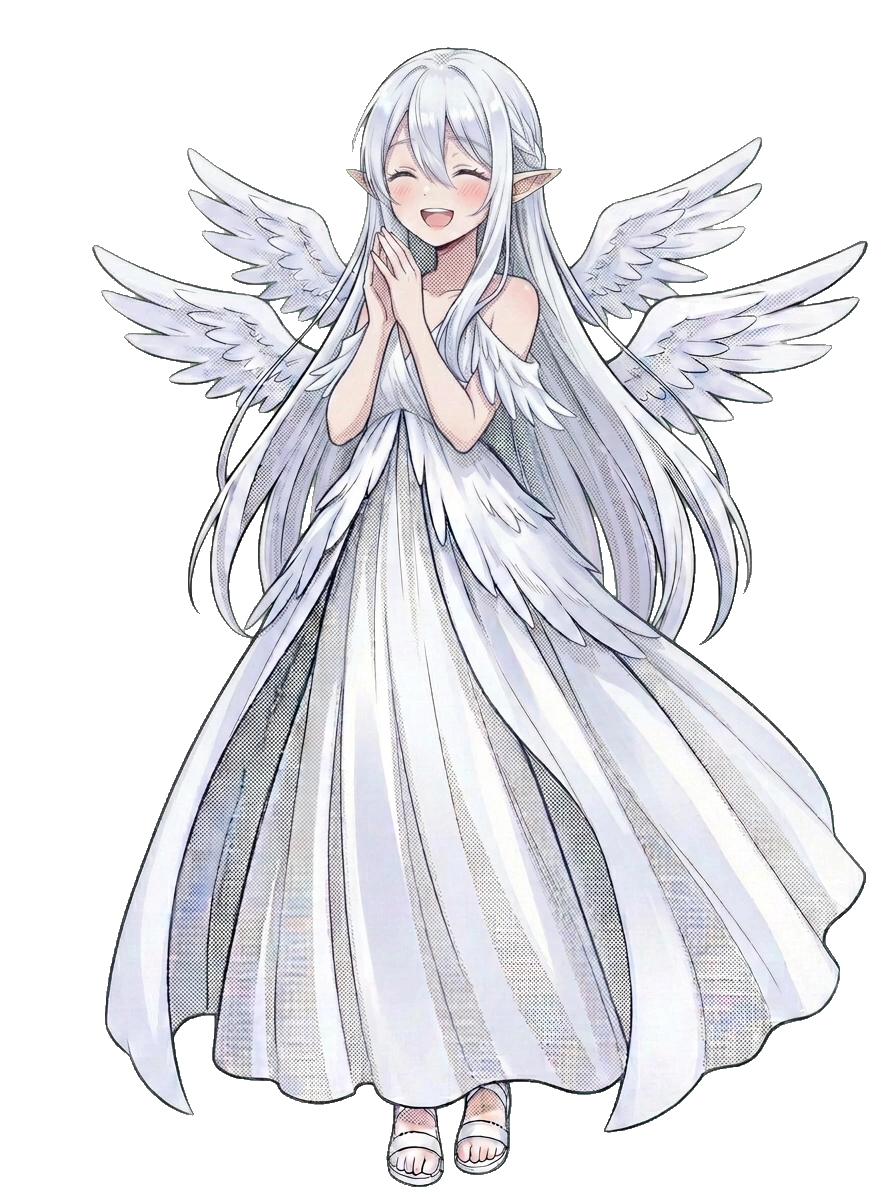
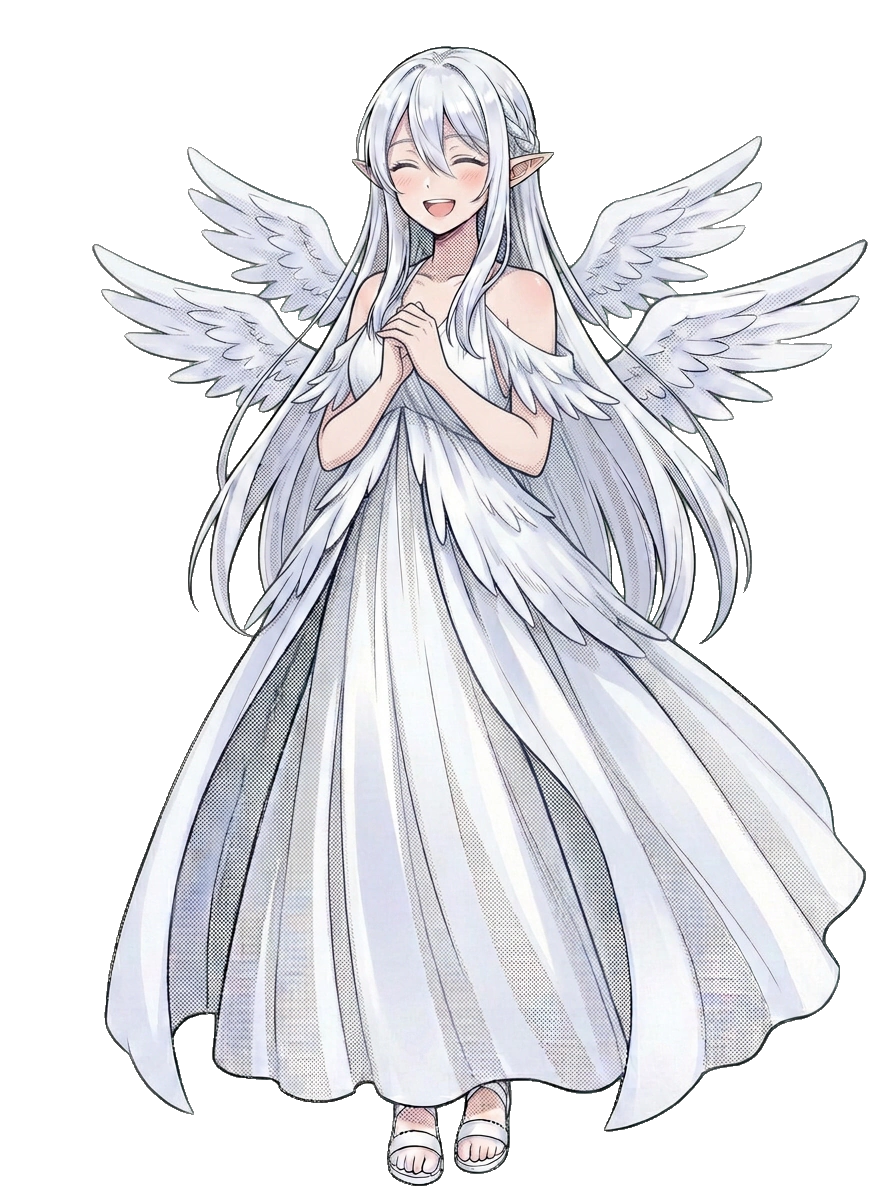
Мира: новый спрайт ангела happy (взрослое лицо как у neutral); первые черновики CG Дней 3–7 в art/cg_drafts; ASSET_VER _52

diff --git a/index.html b/index.html
@@ -4,7 +4,7 @@
   <meta charset="UTF-8" />
   <meta name="viewport" content="width=device-width, initial-scale=1.0" />
   <title>Не смотри на небо</title>
-  <link rel="stylesheet" href="styles.css?v=20261103_51" />
+  <link rel="stylesheet" href="styles.css?v=20261103_52" />
 </head>
 <body>
   <div id="app">
@@ -16,7 +16,7 @@
           <feDisplacementMap in="SourceGraphic" in2="n" scale="2.2" xChannelSelector="R" yChannelSelector="G"/>
         </filter>
       </svg>
-      <img class="swag-logo-img" src="assets/ui/swag_logo.png?v=20261103_51" alt="$WAG Entertainment" draggable="false">
+      <img class="swag-logo-img" src="assets/ui/swag_logo.png?v=20261103_52" alt="$WAG Entertainment" draggable="false">
       <div class="swag-sub"><span class="swag-line"></span><span class="swag-star">✦</span><span class="swag-word">представляет</span><span class="swag-star">✦</span><span class="swag-line r"></span></div>
       <div class="swag-hint">Нажмите, чтобы пропустить</div>
     </div>
@@ -266,46 +266,46 @@
   </div>
 
   <!-- SCRIPT CHAPTERS -->
-  <script src="vn-config.js?v=20261103_51"></script>
-  <script src="vn-core.js?v=20261103_51"></script>
-  <script src="script/_registry.js?v=20261103_51"></script>
-  <script src="script/prologue_1_morning.js?v=20261103_51"></script>
-  <script src="script/prologue_2_city.js?v=20261103_51"></script>
-  <script src="script/prologue_3_barbershop.js?v=20261103_51"></script>
-  <script src="script/prologue_4_depot.js?v=20261103_51"></script>
-  <script src="script/prologue_5_crash.js?v=20261103_51"></script>
-  <script src="script/day1_1_mirael.js?v=20261103_51"></script>
-  <script src="script/day1_2_kitchen.js?v=20261103_51"></script>
-  <script src="script/day1_3_valeria.js?v=20261103_51"></script>
-  <script src="script/day1_4_bridge.js?v=20261103_51"></script>
-  <script src="script/day1_5_taya.js?v=20261103_51"></script>
-  <script src="script/day2_1_quit.js?v=20261103_51"></script>
-  <script src="script/day2_2_shift.js?v=20261103_51"></script>
-  <script src="script/day2_3_zero.js?v=20261103_51"></script>
-  <script src="script/day2_4_walk.js?v=20261103_51"></script>
-  <script src="script/day3_1_office.js?v=20261103_51"></script>
-  <script src="script/day3_2_nika.js?v=20261103_51"></script>
-  <script src="script/day3_3_books.js?v=20261103_51"></script>
-  <script src="script/day3_3_home.js?v=20261103_51"></script>
-  <script src="script/day3_4_nika_night.js?v=20261103_51"></script>
-  <script src="script/day4_1_free.js?v=20261103_51"></script>
-  <script src="script/day4_1b_film.js?v=20261103_51"></script>
-  <script src="script/day4_2_barbershop.js?v=20261103_51"></script>
-  <script src="script/day4_2b_cake.js?v=20261103_51"></script>
-  <script src="script/day4_3_cuckoo.js?v=20261103_51"></script>
-  <script src="script/day4_3_home.js?v=20261103_51"></script>
-  <script src="script/day5_0_bike.js?v=20261103_51"></script>
-  <script src="script/day5_0b_market.js?v=20261103_51"></script>
-  <script src="script/day5_1_artyom.js?v=20261103_51"></script>
-  <script src="script/day5_2_elevator.js?v=20261103_51"></script>
-  <script src="script/day5_3_night.js?v=20261103_51"></script>
-  <script src="script/day6_1_morning.js?v=20261103_51"></script>
-  <script src="script/day6_2_squeeze.js?v=20261103_51"></script>
-  <script src="script/day6_2b_bureau.js?v=20261103_51"></script>
-  <script src="script/day6_3_taya.js?v=20261103_51"></script>
-  <script src="script/day7_0_river.js?v=20261103_51"></script>
-  <script src="script/day7_1_voices.js?v=20261103_51"></script>
-  <script src="script/day7_2_stairs.js?v=20261103_51"></script>
-  <script src="engine.js?v=20261103_51"></script>
+  <script src="vn-config.js?v=20261103_52"></script>
+  <script src="vn-core.js?v=20261103_52"></script>
+  <script src="script/_registry.js?v=20261103_52"></script>
+  <script src="script/prologue_1_morning.js?v=20261103_52"></script>
+  <script src="script/prologue_2_city.js?v=20261103_52"></script>
+  <script src="script/prologue_3_barbershop.js?v=20261103_52"></script>
+  <script src="script/prologue_4_depot.js?v=20261103_52"></script>
+  <script src="script/prologue_5_crash.js?v=20261103_52"></script>
+  <script src="script/day1_1_mirael.js?v=20261103_52"></script>
+  <script src="script/day1_2_kitchen.js?v=20261103_52"></script>
+  <script src="script/day1_3_valeria.js?v=20261103_52"></script>
+  <script src="script/day1_4_bridge.js?v=20261103_52"></script>
+  <script src="script/day1_5_taya.js?v=20261103_52"></script>
+  <script src="script/day2_1_quit.js?v=20261103_52"></script>
+  <script src="script/day2_2_shift.js?v=20261103_52"></script>
+  <script src="script/day2_3_zero.js?v=20261103_52"></script>
+  <script src="script/day2_4_walk.js?v=20261103_52"></script>
+  <script src="script/day3_1_office.js?v=20261103_52"></script>
+  <script src="script/day3_2_nika.js?v=20261103_52"></script>
+  <script src="script/day3_3_books.js?v=20261103_52"></script>
+  <script src="script/day3_3_home.js?v=20261103_52"></script>
+  <script src="script/day3_4_nika_night.js?v=20261103_52"></script>
+  <script src="script/day4_1_free.js?v=20261103_52"></script>
+  <script src="script/day4_1b_film.js?v=20261103_52"></script>
+  <script src="script/day4_2_barbershop.js?v=20261103_52"></script>
+  <script src="script/day4_2b_cake.js?v=20261103_52"></script>
+  <script src="script/day4_3_cuckoo.js?v=20261103_52"></script>
+  <script src="script/day4_3_home.js?v=20261103_52"></script>
+  <script src="script/day5_0_bike.js?v=20261103_52"></script>
+  <script src="script/day5_0b_market.js?v=20261103_52"></script>
+  <script src="script/day5_1_artyom.js?v=20261103_52"></script>
+  <script src="script/day5_2_elevator.js?v=20261103_52"></script>
+  <script src="script/day5_3_night.js?v=20261103_52"></script>
+  <script src="script/day6_1_morning.js?v=20261103_52"></script>
+  <script src="script/day6_2_squeeze.js?v=20261103_52"></script>
+  <script src="script/day6_2b_bureau.js?v=20261103_52"></script>
+  <script src="script/day6_3_taya.js?v=20261103_52"></script>
+  <script src="script/day7_0_river.js?v=20261103_52"></script>
+  <script src="script/day7_1_voices.js?v=20261103_52"></script>
+  <script src="script/day7_2_stairs.js?v=20261103_52"></script>
+  <script src="engine.js?v=20261103_52"></script>
 </body>
 </html>

diff --git a/engine.js b/engine.js
@@ -1,6 +1,6 @@
 // ДВИЖОК ВИЗУАЛЬНОЙ НОВЕЛЛЫ «НЕ СМОТРИ НА НЕБО» ($WAG ENTERTAINMENT)
 (function () {
-  const ASSET_VER = "20261103_51";
+  const ASSET_VER = "20261103_52";
 
   function withVer(url) {
     if (!url) return "";

diff --git a/docs/production/assets.md b/docs/production/assets.md
@@ -180,7 +180,7 @@
 8. CG: решить по `cg_sasha_mirror` (текст ↔ картинка); `cg_crash_headlights` — перерисовать при возможности.
 9. ✅ 02.11 оптимизация: фоны и CG → WebP q94 (143.9 → 26.9 МБ), игровые спрайты → WebP q97 с альфой без потерь (108.7 → 13.7 МБ). Ширина спрайтов уже одна из трёх (896, 892, 956 при высоте 1200/1280), слоты в `styles.css` под неё настроены, поэтому не трогали. MP3 оставлены как есть.
 10. `sprites_for_cutout/` (63 МБ) и исходники спрайтов вне `transparent/` (103 файла, 97 МБ) вынести из игры (в отдельную ветку/архив) после того, как автор подтвердит, что ручная вырезка не нужна. Проверено 02.11: это не дубли, побайтно с игровыми не совпадает ни один.
-11. CG для Дней 3–7: 18 мест по плану (9 A, 9 B), см. раздел ниже.
+11. CG для Дней 3–7: 18 мест по плану (11 A, 7 B), см. раздел ниже. 03.11: черновики складываются в `art/cg_drafts/` (статус в `art/cg_drafts/README.md`), автор поднимает качество, потом подключаем.
 
 ### CG пролога (01.11)
 
@@ -224,7 +224,7 @@
 | `cg_d7_river_lev` | day7_0_river · «На нижней ступеньке сидел человек с удочкой» | Рассвет, дым над рекой. Лев Аркадьевич с удочкой без наживки на нижней ступени, Саша садится рядом | B |
 | `cg_d7_chrysanthemums` | day7_1_voices · «Под сиренью лежали цветы» | Перекрёсток на Заречном днём, без людей: белые хризантемы в целлофане под подвязанной сиренью, карточка «Прости», на западе туча | B |
 | `cg_d7_thermos_step` | day7_1_voices · «На ступеньке между третьим и вторым стоял термос» | Тёмный подъезд в грозу, вспышка за окном. На ступеньке помятый термос Лены со сколом эмали | B |
-| `cg_d7_mira_door` | day7_2_stairs · arr_mirael | Вход в рут Миры. Дверь открыта, Мира в полосе света из квартиры с тетрадью, палец между страниц. Саша мокрый на площадке | A |
+| `cg_d7_mira_door` | day7_2_stairs · arr_mirael | Вход в рут Миры. Дверь открыта, Мира в полосе света из квартиры с тетрадью, палец между страниц. Саша на площадке сухой: из подъезда он в эту ночь не выходил | A |
 | `cg_d7_valeria_chess` | day7_2_stairs · arr_valeria | Вход в рут Валерии. Салон ночью, камин, шахматная доска, кресло, перетянутое зелёным бархатом. Валерия ждёт | A |
 | `cg_d7_lena_awning_storm` | day7_2_stairs · arr_lena | Вход в рут Лены. Ночь, стена дождя, под жестяным навесом лампа, Лена на ящике с термосом. Перекличка с `cg_awning_thermos` | A |
 | `cg_d7_taya_midnight` | day7_2_stairs · arr_taya | Вход в рут Таи. Сухой полуподвал, все часы на полках, под зелёной лампой дедовские часы, стрелки сходятся на двенадцати | A |
@@ -235,6 +235,8 @@
 - Мира в человеческом облике всегда с ушами, спрятанными под волосами. У ангельской формы две пары крыльев.
 - Ника не отражается в зеркалах (`cg_d5_mirror_lift` держится на этом).
 - Как подключить: положить `assets/backgrounds/<файл>.webp` (WebP q94, как остальные CG). На отмеченном узле поставить `bg: "<файл>", sprite: "clear"`. На следующем узле вернуть фон локации.
+- Мира с крыльями дома в Дашином белом платье с голубой лентой, как в человеческом облике с третьего дня (решение 03.11: в тексте одежда в этих сценах не описана).
+- Черновики (03.11): `art/cg_drafts/`, 1376×768. Готовы к апскейлу: `cg_d3_stove_wings`, `cg_d3_balcony_wings`, `cg_d4_lemon`, `cg_d5_lena_door`, `cg_d6_watch_backwards`. Остальные в работе, статус в `art/cg_drafts/README.md`.
 
 Правило: на CG-узле всегда `sprite: "clear"`; спрайты возвращаются вместе с обычным фоном.
 
@@ -266,3 +268,7 @@
 
 - Тая: все 11 спрайтов в `taya/transparent/` отражены по горизонтали (просьба автора). После отражения оттенки радужек переставлены обратно: голубой глаз слева для зрителя (её правый), зелёный справа. Исходники в `taya/` не отражены.
 - Валерия: `valeria_contract` и `valeria_human_contract` перегенерированы на зелёном и вырезаны хромакеем. Папка в руках на уровне груди, надпись на листе вычищена.
+
+### 03.11
+
+- Мираэль: `mirael_angel_happy` сделан заново. У старого лицо было круглее и младше, чем на остальных ангельских спрайтах. Новый собран по `mirael_angel_neutral`: то же взрослое лицо и тело, глаза зажмурены от смеха, руки сложены у груди. Вырезан хромакеем с `--neutral-despill`, силуэт совпадает с neutral (IoU 0.994), зелёных пикселей 0. Исходник `mirael/mirael_angel_happy.png` заменён новым (на белом), старый остался в истории git.

diff --git a/art/cg_drafts/README.md b/art/cg_drafts/README.md
@@ -1,0 +1,31 @@
+# Черновики CG для Дней 3–7
+
+Сгенерированы 03.11 по плану из `docs/production/assets.md`, раздел «CG для Дней 3–7». Размер 1376×768, соотношение почти то же, что у готовых CG (1678×937). Автор поднимает качество, после этого CG подключаются в игру.
+
+## Как подключить после апскейла
+
+1. Сохранить готовую картинку как `assets/backgrounds/<id>.png`, шириной не меньше 1678.
+2. `node tools/to_webp.js assets/backgrounds/<id>.png` (нужен sharp: `npm i --no-save sharp`). Получится WebP q94, PNG удалится.
+3. В сценарии найти комментарий `// CG (план, …): <id>`. На узле под ним поставить `bg: "<id>", sprite: "clear"`, на следующем узле вернуть фон локации.
+
+## Статус
+
+| Файл | Глава · узел | Статус |
+|---|---|---|
+| `cg_d3_stove_wings.png` | day3_3_home · «На кухне было жарко и тесно от крыльев» | готов к апскейлу |
+| `cg_d3_balcony_wings.png` | day3_4_nika_night · «Крылья у неё раскрылись сами» | готов к апскейлу |
+| `cg_d4_lemon.png` | day4_3_home · лимон после ужина | готов к апскейлу |
+| `cg_d5_lena_door.png` | day5_3_night · «Она сунула ему вторую кисть и банку» | готов к апскейлу |
+| `cg_d6_watch_backwards.png` | day6_3_taya · «Она сняла колпак» | готов к апскейлу |
+| `cg_d5_lilac_crash` | day5_0_bike | переделывается: у Миры волосы закрыли лицо |
+| `cg_d5_mirror_lift` | day5_2_elevator | переделывается: в левом зеркале видно отражение Ники |
+| `cg_d3_curb_problem`, `cg_d4_foil_headlights`, `cg_d4_cuckoo`, `cg_d6_haircut`, `cg_d7_river_lev`, `cg_d7_chrysanthemums`, `cg_d7_thermos_step`, `cg_d7_mira_door`, `cg_d7_valeria_chess`, `cg_d7_lena_awning_storm`, `cg_d7_taya_midnight` | — | в очереди |
+
+## Что держать в кадре
+
+- Мира в ангельском облике всегда с двумя парами крыльев: большая верхняя и меньшая под ней.
+- С третьего дня Мира ходит в Дашином белом платье с голубой лентой. В сценах дома с крыльями одежда в тексте не описана, поэтому на CG то же платье, что в `cg_dress_fitting`.
+- В человеческом облике уши спрятаны под волосами.
+- Ника не отражается в зеркалах.
+- Артёма в кадре нет. Машины в кадре без марки и узнаваемых деталей, чтобы их нельзя было принять за улику.
+- На двери в `cg_d5_lena_door` надпись «ВЕРНИТЕ ДОЛГ» читается, нижняя половина закрашена коричневым. Хвост у Лены держится на карандаше, банта нет, как в тексте.
